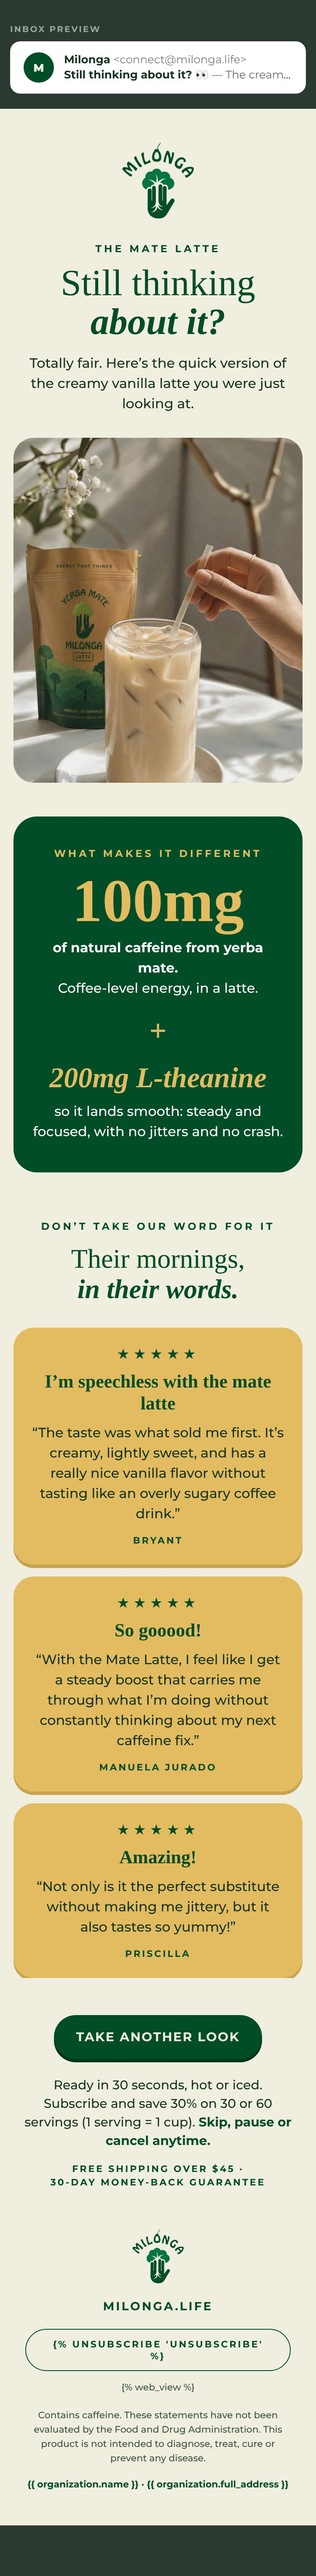
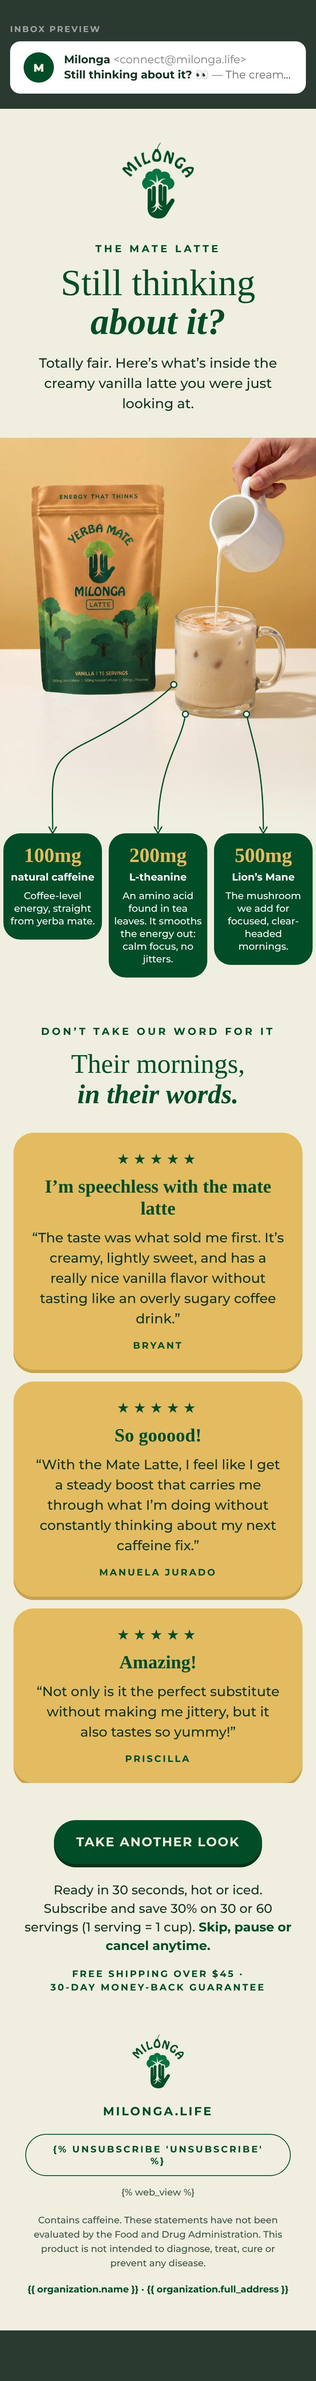
Browse E1: diagram image on Klaviyo's CDN, README and renders
Claude-Session: https://claude.ai/code/session_01NhEtXPnfeCJfN73SqBkUZ5

diff --git a/email-ds/exports/klaviyo/browse-e1/browse-e1.html b/email-ds/exports/klaviyo/browse-e1/browse-e1.html
@@ -18,14 +18,17 @@
     .pad-photo { padding-left:16px !important; padding-right:16px !important; }
     .h-hero { font-size:44px !important; line-height:46px !important; }
     .h-sec { font-size:32px !important; line-height:36px !important; }
-    .edge { padding:36px 22px !important; }
-    .big { font-size:72px !important; line-height:72px !important; }
+    .co { padding:0 4px !important; }
+    .co-card { padding:14px 6px 14px !important; }
+    .co-big { font-size:24px !important; line-height:26px !important; }
+    .co-name { font-size:12px !important; line-height:15px !important; }
+    .co-text { font-size:11.5px !important; line-height:15px !important; }
     .card { padding:24px 22px 22px !important; }
     .btn { padding:18px 26px !important; font-size:15px !important; letter-spacing:1.2px !important; }
   }
   @media (prefers-color-scheme: dark) {
     .bg-page { background-color:#F0EFDF !important; }
-    .bg-forest { background-color:#004D27 !important; }
+
   }
 </style>
 <table role="presentation" width="100%" cellpadding="0" cellspacing="0" border="0" bgcolor="#F0EFDF" class="bg-page" style="background-color:#F0EFDF;">
@@ -38,24 +41,39 @@
 <div style="padding-top:28px;font-size:12px;line-height:16px;font-weight:700;letter-spacing:3px;text-transform:uppercase;color:#004D27;">The Mate Latte</div>
 <div class="h-hero" style="padding-top:10px;font-family:'Times New Roman',Times,Georgia,serif;font-size:54px;line-height:56px;font-weight:400;color:#004D27;">Still thinking</div>
 <div class="h-hero" style="font-family:'Times New Roman',Times,Georgia,serif;font-size:54px;line-height:58px;font-weight:700;font-style:italic;color:#004D27;">about it?</div>
-<div style="padding-top:14px;font-size:16px;line-height:24px;font-weight:500;color:#12331F;">Totally fair. Here&rsquo;s the quick version of the creamy vanilla latte you were just <span style="white-space:nowrap;">looking at.</span></div>
+<div style="padding-top:14px;font-size:16px;line-height:24px;font-weight:500;color:#12331F;">Totally fair. Here&rsquo;s what&rsquo;s inside the creamy vanilla latte you were just <span style="white-space:nowrap;">looking at.</span></div>
 </td></tr>
-<tr><td class="pad-photo bg-page" align="center" bgcolor="#F0EFDF" style="background-color:#F0EFDF;padding:28px 40px 0;font-size:0;line-height:0;">
-<a href="https://milonga.life/products/the-original-mate-latte?utm_source=klaviyo&amp;utm_medium=email&amp;utm_campaign=browse_abandon_mate_latte&amp;utm_content=b1_photo" target="_blank"><img src="https://cdn.klaviyomail.com/company/TwvSnK/images/88b7cb94-dbd2-44f5-97e0-137228399165.jpeg" width="520" alt="A pouch of Milonga Mate Latte beside a tall glass of iced Mate Latte with a straw, in morning sun." style="display:block;width:100%;max-width:520px;height:auto;border:0;border-radius:24px;"></a>
+<!-- the photo, with three arrows out of the cup; they end on the three cards below -->
+<tr><td class="bg-page" align="center" bgcolor="#F0EFDF" style="background-color:#F0EFDF;padding:28px 0 0;font-size:0;line-height:0;">
+<a href="https://milonga.life/products/the-original-mate-latte?utm_source=klaviyo&amp;utm_medium=email&amp;utm_campaign=browse_abandon_mate_latte&amp;utm_content=b1_photo" target="_blank"><img src="https://cdn.klaviyomail.com/company/TwvSnK/images/292465d3-186d-4d94-9321-5e566a00604f.jpeg" width="600" alt="A pouch of Milonga Mate Latte beside a glass of iced Mate Latte, with milk pouring in. Three arrows point from the cup to what is inside it." style="display:block;width:100%;max-width:600px;height:auto;border:0;"></a>
 </td></tr>
-
-<!-- ── 2 · THE EDGE (forest card) ─────────────────────────────────── -->
-<tr><td class="pad-photo bg-page" bgcolor="#F0EFDF" style="background-color:#F0EFDF;padding:40px 40px 0;">
+<tr><td class="bg-page" bgcolor="#F0EFDF" style="background-color:#F0EFDF;padding:0;">
 <table role="presentation" width="100%" cellpadding="0" cellspacing="0" border="0" style="border-collapse:separate;"><tr>
-<td class="edge bg-forest" align="center" bgcolor="#004D27" style="background-color:#004D27;border-radius:28px;padding:44px 36px;font-family:'Montserrat','Helvetica Neue',Helvetica,Arial,sans-serif;">
-<div style="font-size:12px;line-height:16px;font-weight:700;letter-spacing:3px;text-transform:uppercase;color:#E3BC62;">What makes it different</div>
-<div class="big" style="padding-top:12px;font-family:'Times New Roman',Times,Georgia,serif;font-size:88px;line-height:84px;font-weight:700;color:#E3BC62;">100mg</div>
-<div style="padding-top:8px;font-size:16px;line-height:24px;font-weight:700;color:#FFFFFF;">of natural caffeine from yerba mate.</div>
-<div style="font-size:16px;line-height:24px;font-weight:500;color:#FFFFFF;">Coffee-level energy, in a&nbsp;latte.</div>
-<div style="padding:20px 0;font-family:'Times New Roman',Times,Georgia,serif;font-size:36px;line-height:36px;font-weight:700;color:#E3BC62;">+</div>
-<div style="font-family:'Times New Roman',Times,Georgia,serif;font-size:34px;line-height:38px;font-weight:700;font-style:italic;color:#E3BC62;">200mg L&#8209;theanine</div>
-<div style="padding-top:8px;font-size:16px;line-height:24px;font-weight:500;color:#FFFFFF;">so it lands smooth: steady and focused, with no jitters and <span style="white-space:nowrap;">no crash.</span></div>
+<td class="co" width="33.33%" valign="top" style="width:33.33%;padding:0 8px;">
+<table role="presentation" width="100%" cellpadding="0" cellspacing="0" border="0" style="border-collapse:separate;"><tr>
+<td class="co-card" align="center" valign="top" bgcolor="#004D27" style="background-color:#004D27;border-radius:20px;padding:18px 12px 18px;font-family:'Montserrat','Helvetica Neue',Helvetica,Arial,sans-serif;">
+<div class="co-big" style="font-family:'Times New Roman',Times,Georgia,serif;font-size:34px;line-height:36px;font-weight:700;color:#E3BC62;">100mg</div>
+<div class="co-name" style="padding-top:4px;font-size:14px;line-height:18px;font-weight:700;color:#FFFFFF;">natural caffeine</div>
+<div class="co-text" style="padding-top:8px;font-size:13px;line-height:18px;font-weight:500;color:#FFFFFF;">Coffee-level energy, straight from yerba mate.</div>
 </td></tr></table>
+</td>
+<td class="co" width="33.33%" valign="top" style="width:33.33%;padding:0 8px;">
+<table role="presentation" width="100%" cellpadding="0" cellspacing="0" border="0" style="border-collapse:separate;"><tr>
+<td class="co-card" align="center" valign="top" bgcolor="#004D27" style="background-color:#004D27;border-radius:20px;padding:18px 12px 18px;font-family:'Montserrat','Helvetica Neue',Helvetica,Arial,sans-serif;">
+<div class="co-big" style="font-family:'Times New Roman',Times,Georgia,serif;font-size:34px;line-height:36px;font-weight:700;color:#E3BC62;">200mg</div>
+<div class="co-name" style="padding-top:4px;font-size:14px;line-height:18px;font-weight:700;color:#FFFFFF;">L-theanine</div>
+<div class="co-text" style="padding-top:8px;font-size:13px;line-height:18px;font-weight:500;color:#FFFFFF;">An amino acid found in tea leaves. It smooths the energy out: calm focus, no jitters.</div>
+</td></tr></table>
+</td>
+<td class="co" width="33.33%" valign="top" style="width:33.33%;padding:0 8px;">
+<table role="presentation" width="100%" cellpadding="0" cellspacing="0" border="0" style="border-collapse:separate;"><tr>
+<td class="co-card" align="center" valign="top" bgcolor="#004D27" style="background-color:#004D27;border-radius:20px;padding:18px 12px 18px;font-family:'Montserrat','Helvetica Neue',Helvetica,Arial,sans-serif;">
+<div class="co-big" style="font-family:'Times New Roman',Times,Georgia,serif;font-size:34px;line-height:36px;font-weight:700;color:#E3BC62;">500mg</div>
+<div class="co-name" style="padding-top:4px;font-size:14px;line-height:18px;font-weight:700;color:#FFFFFF;">Lion&rsquo;s Mane</div>
+<div class="co-text" style="padding-top:8px;font-size:13px;line-height:18px;font-weight:500;color:#FFFFFF;">The mushroom we add for focused, clear-headed mornings.</div>
+</td></tr></table>
+</td>
+</tr></table>
 </td></tr>
 
 <!-- ── 3 · PROOF (real reviews) ───────────────────────────────────── -->
